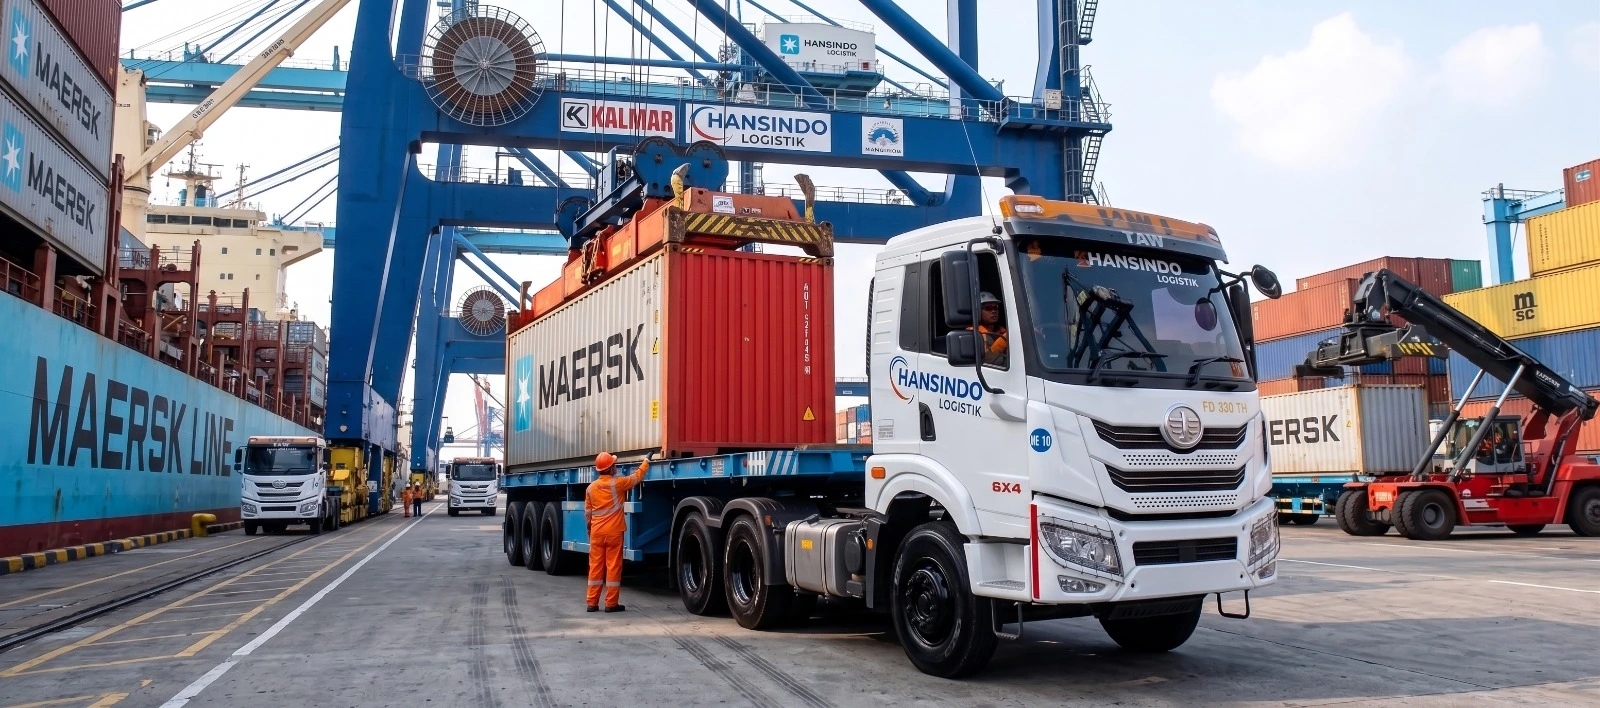
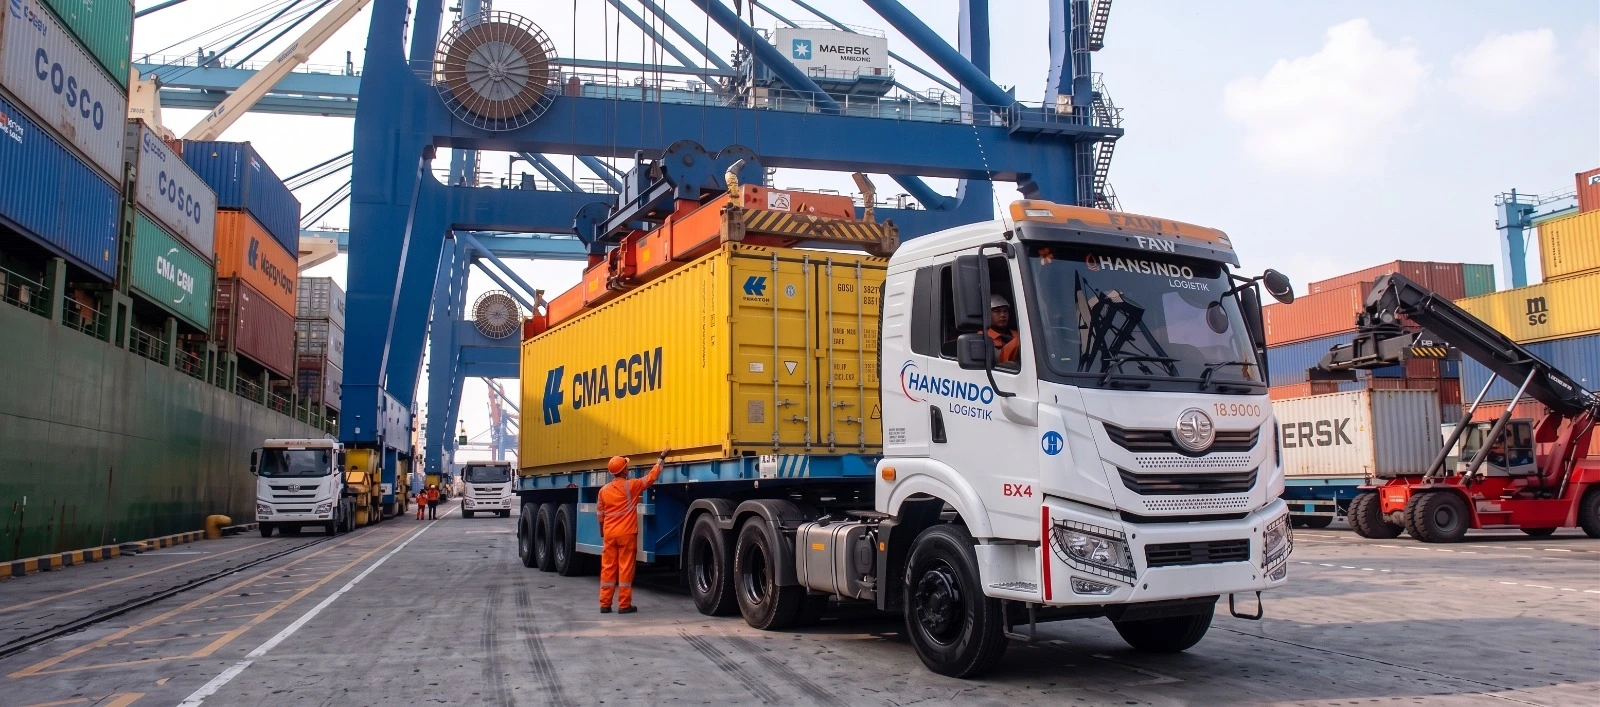
fix:update img project container

diff --git a/lib/data.ts b/lib/data.ts
@@ -82,7 +82,7 @@ export const SERVICES_DATA: ServiceItem[] = [
         caption: "",
       },
       {
-        src: "/images/content/container_loading.png",
+        src: "/images/content/cargo_loading.webp",
         alt: "Port Crane Container Loading",
         caption: "",
         position: "object-[center_65%]",
